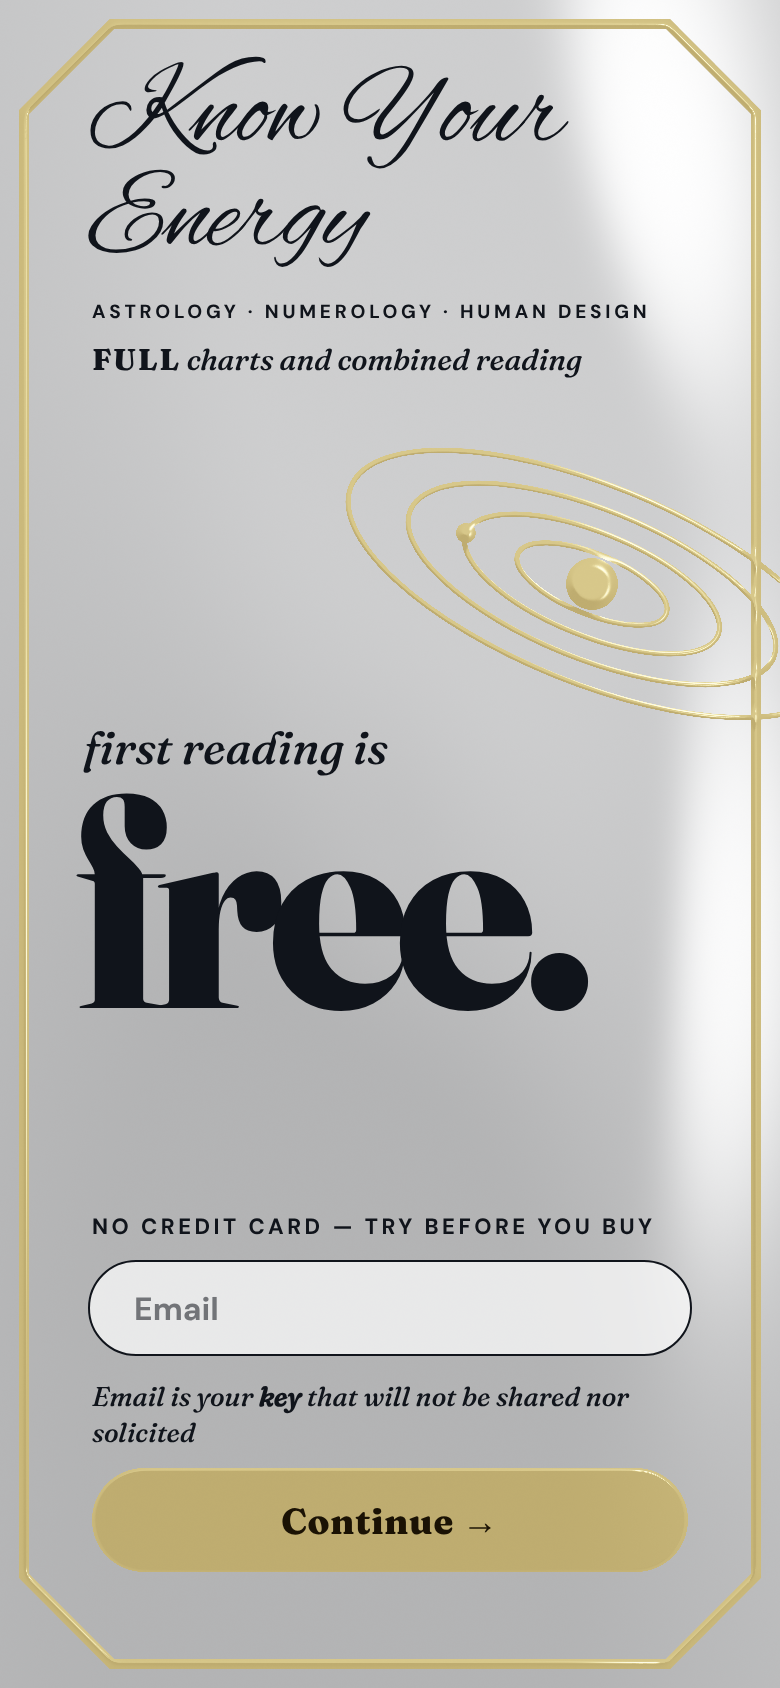
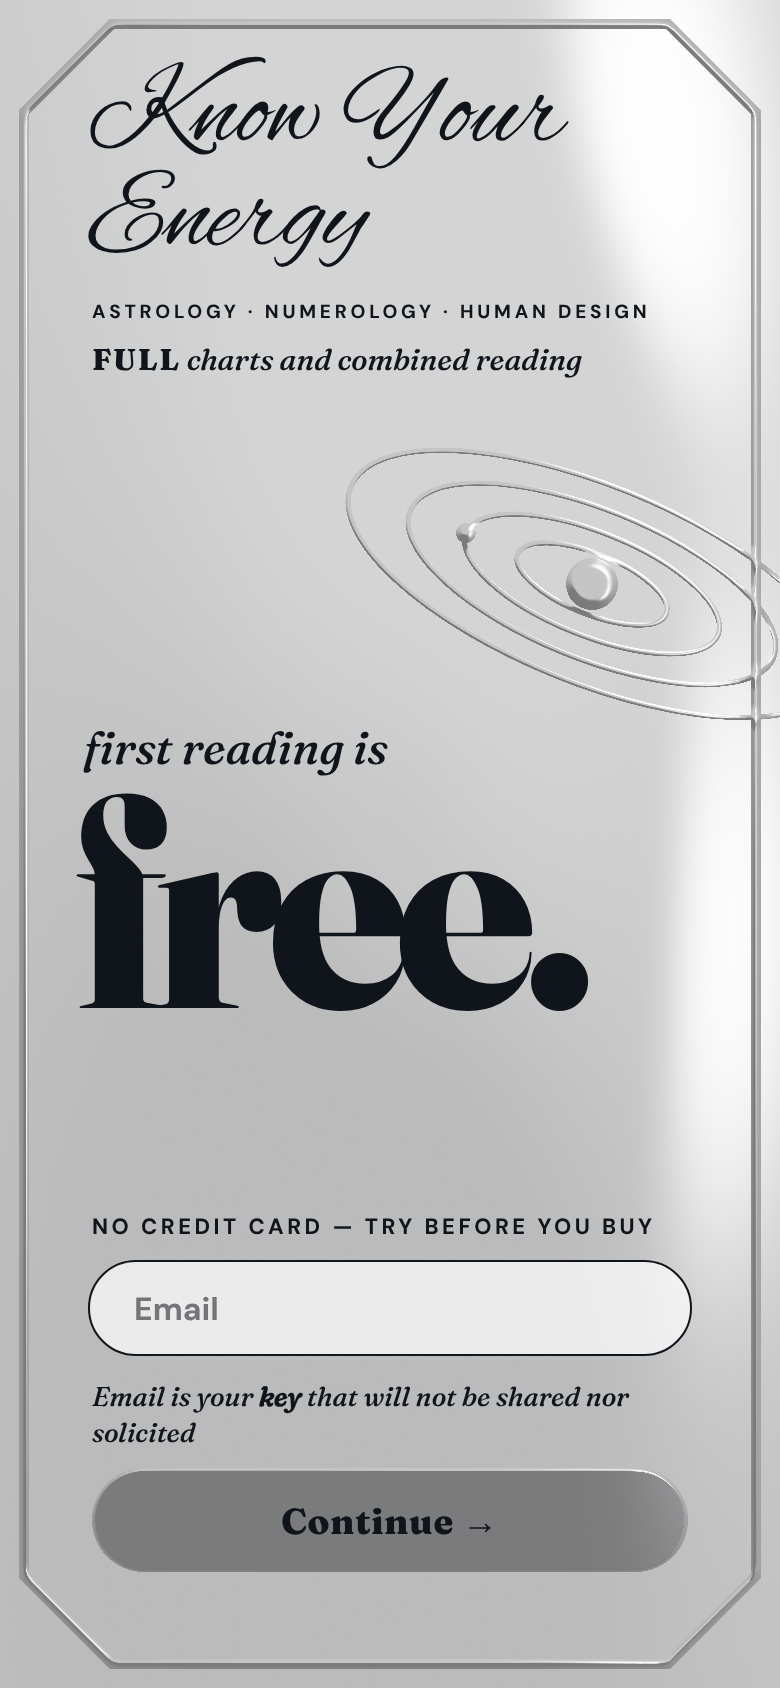
Metal page: gold removed; silver frame, rings and button rendered as polished silver on the curved silver base
Claude-Session: https://claude.ai/code/session_01DRAcaZvypgnSaCTMdJvvGx

diff --git a/metalpage/page.html b/metalpage/page.html
@@ -15,7 +15,7 @@ html,body{width:390px;height:844px;overflow:hidden;background:#aab0b9;font-famil
 .field{position:absolute;left:44px;right:44px;top:630px;height:48px;border-radius:999px;background:rgba(255,255,255,.7);border:1.5px solid #10141b;padding:0 22px;display:flex;align-items:center;font-weight:700;font-size:16px}
 .field span{opacity:.55}
 .key{position:absolute;left:46px;top:690px;width:290px;font-family:'Fraunces',serif;font-style:italic;font-weight:500;font-size:13.5px;line-height:1.3}
-.btn{position:absolute;left:46px;width:298px;top:734px;height:52px;display:flex;align-items:center;justify-content:center;font-family:'Fraunces',serif;font-weight:800;font-size:18px;letter-spacing:.02em;color:#1a1204}
+.btn{position:absolute;left:46px;width:298px;top:734px;height:52px;display:flex;align-items:center;justify-content:center;font-family:'Fraunces',serif;font-weight:800;font-size:18px;letter-spacing:.02em;color:#10141b}
 </style></head><body>
 <canvas id="c" width="780" height="1688"></canvas>
 <div class="wm">Know Your<br>Energy</div>
@@ -37,7 +37,7 @@ vec3 room(vec3 r){
   return vec3(base)+vec3(k1+k2);}
 vec3 roomG(vec3 r){
   float sky=smoothstep(-.40,.50,r.y+.25*r.x);
-  float base=mix(.10,1.05,sky);
+  float base=mix(.50,1.12,sky);
   float k1=exp((dot(r,uL1)-1.)/.020)*3.4;
   float k2=exp((dot(r,uL2)-1.)/.025)*2.2;
   return vec3(base)+vec3(k1+k2);}
@@ -52,7 +52,7 @@ void main(){
   vec3 rs=reflect(vec3(0.,0.,-1.),N);
   vec3 rg=reflect(vec3(0.,0.,-1.),Ng);
   vec3 silver=vec3(.97,.975,.985)*room(rs);
-  vec3 gold=vec3(1.0,.76,.36)*roomG(rg);
+  vec3 gold=vec3(.97,.975,.99)*roomG(rg);
   float gm=smoothstep(.35,.65,m);
   vec3 c=mix(silver,gold,gm);
   c=1.-exp(-c*1.35);
